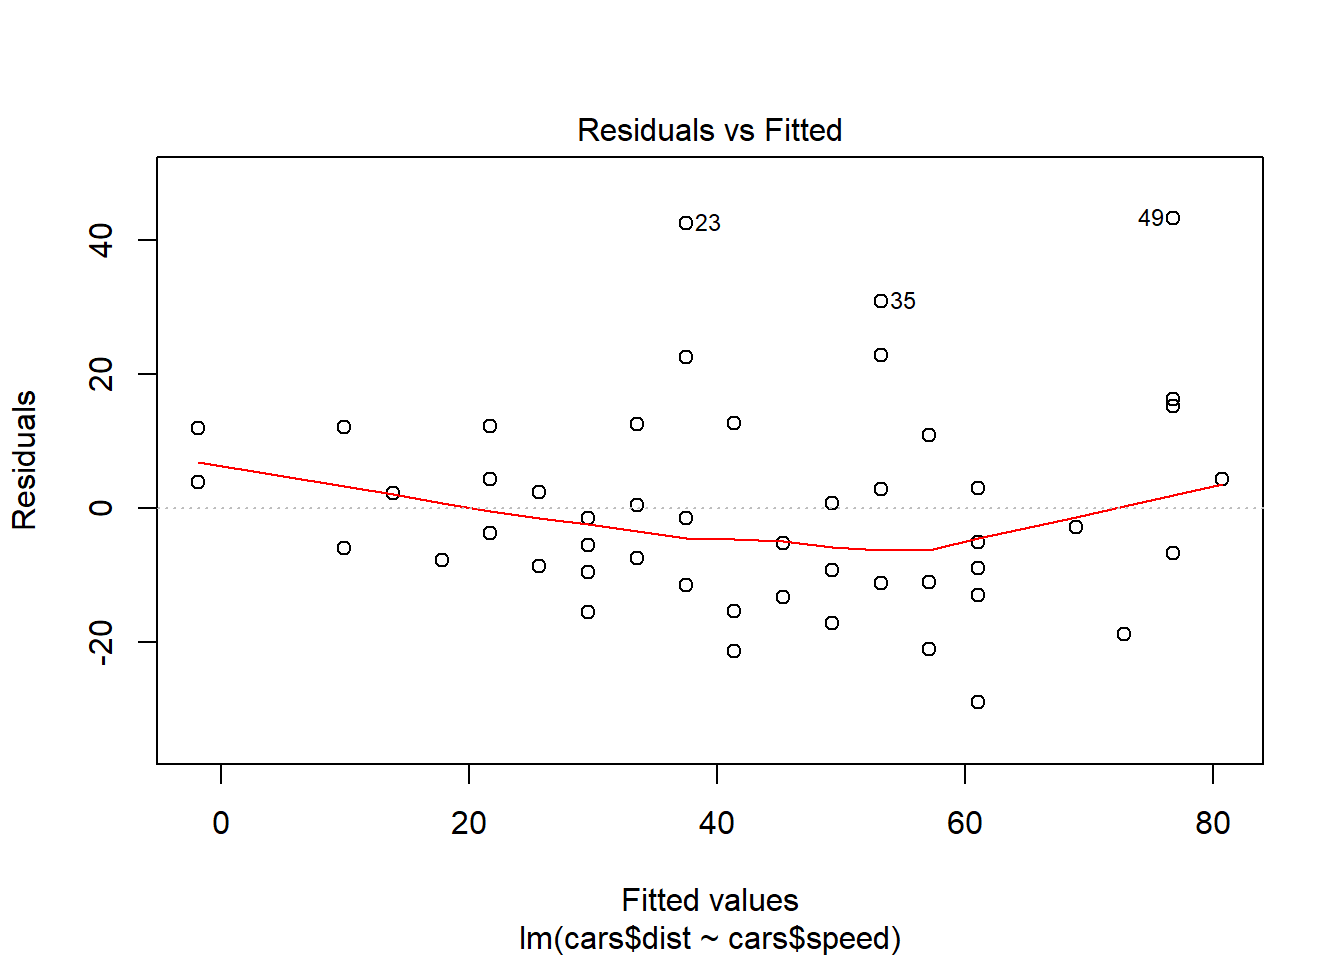
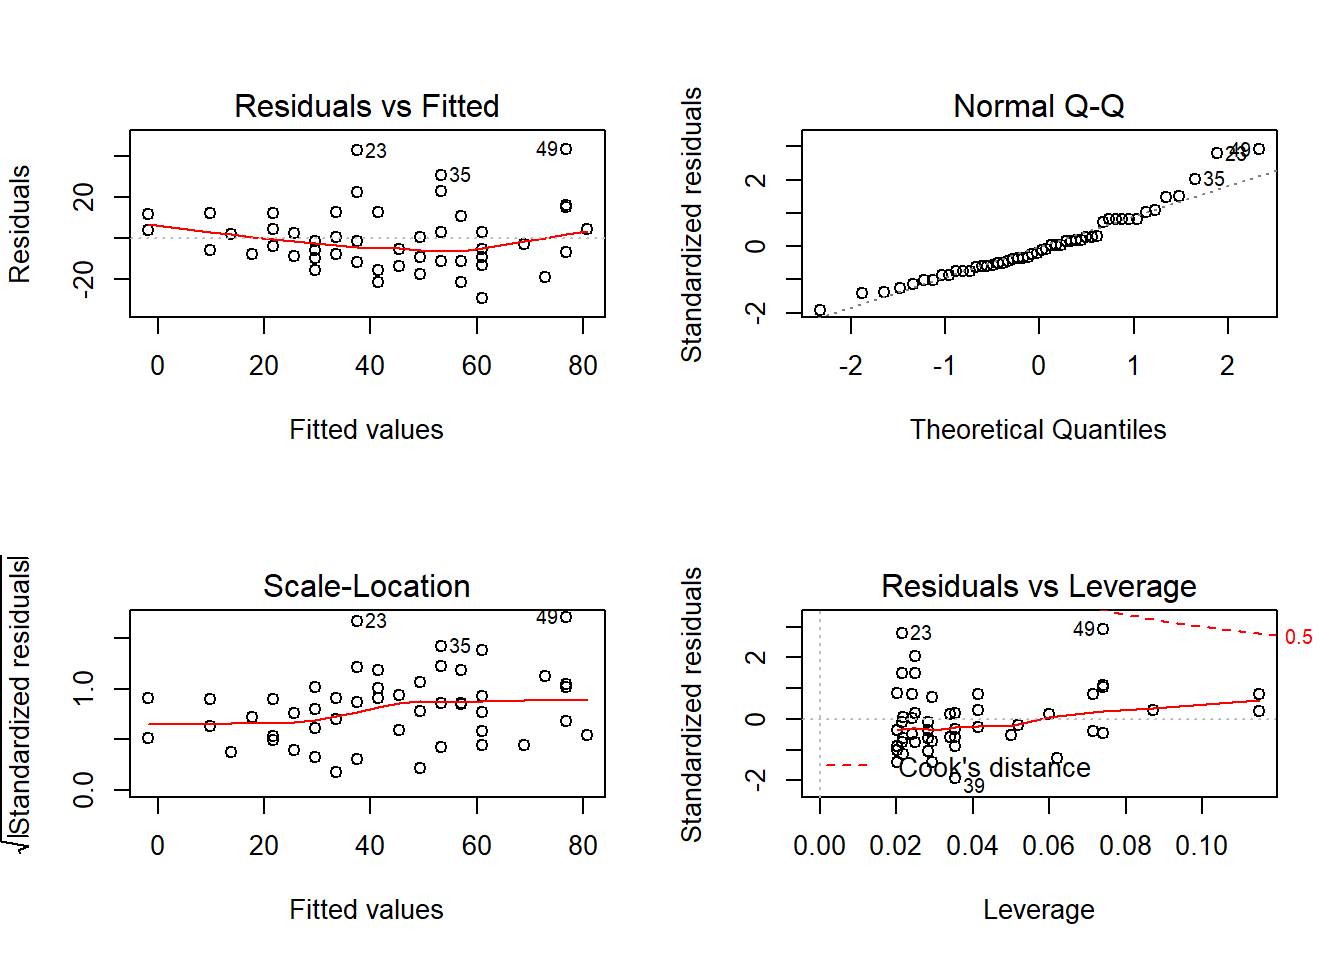
clase de regresión modificada

diff --git a/regrelineal.html b/regrelineal.html
@@ -344,18 +344,16 @@ $(document).ready(function () {
 </div>
 
 
-<div id="regresion-lineal" class="section level2">
-<h2>Regresión lineal</h2>
 <p>Permite establecer asociaciones entre variables de interés, entre las cuáles la relación usual no es necesariamente de causa efecto.</p>
 <p>El objetivo es obtener estimaciones razonables de Y para distintos valores de X a partir de una muestra de n pares de valores (x1, y1), . . . ,(xn, yn).</p>
-</div>
 <div id="antes-de-hacer-un-modelo-de-regresion-lineal" class="section level2">
 <h2>Antes de hacer un modelo de regresión lineal</h2>
 <p>Se deben identificar observaciones extremas, alejadas hacia valores muy grandes o pequeños comparadas con el resto de valores, que puedan influenciar el ajuste de regresión. Para ello se recurre a un análisis descriptivo a través de boxplots ó diagramas de puntos.</p>
 </div>
 <div id="modelo-de-regresion-lineal-basico" class="section level2">
 <h2>Modelo de regresión lineal básico</h2>
-<p>El modelo más simple de regresión corresponde a: <br /><span class="math display">$$\Large y_i=\beta_0 +\beta_1 X_i+\varepsilon_i$$</span><br /> Donde:</p>
+<p>El modelo más simple de regresión corresponde a: <br /><span class="math display">$$\Large y_i=\beta_0 +\beta_1 X_i+\varepsilon_i$$</span><br /></p>
+<p>Donde:</p>
 <p><span class="math inline">$\Large y_i$</span>Es la variable respuesta o dependiente para la i-ésima observación<br />
 </p>
 <p><span class="math inline">$\Large \beta_0$</span> Intercepto<br />
@@ -417,6 +415,12 @@ $(document).ready(function () {
 <li><p>Valores cercanos a 0 la relación es débil, es decir no hay una relación lineal</p></li>
 </ul>
 <p><img src="regrelineal_files/figure-html/unnamed-chunk-1-1.png" width="672" style="display: block; margin: auto 0 auto auto;" /></p>
+</div>
+<div id="prueba-de-significancia-de-la-correlacion" class="section level2">
+<h2>Prueba de significancia de la correlación</h2>
+<p>Podemos chequear la significancia de la correlación a través del siguiente juego de hipótesis.</p>
+<p><br /><span class="math display">$$\Large H_0:  r=0$$</span><br /> <br /><span class="math display">$$\Large H_1:  r\not=0$$</span><br /></p>
+<p>En R usamos la función cor.test() para estudiar la significación estadística del coeficiente y concluir sobre la posible existencia de relación lineal entre las variables.</p>
 </div>
 <div id="medida-de-bondad-de-ajuste-r2" class="section level2">
 <h2>Medida de bondad de ajuste R^2</h2>
@@ -510,13 +514,6 @@ $(document).ready(function () {
 <p>El estadístico de prueba corresponde a</p>
 <p><br /><span class="math display">$$\Large F_c=\frac{MSR}{MSE}\sim F_{(1,n-2)}$$</span><br /></p>
 </div>
-<div id="desicion" class="section level2">
-<h2>Desición</h2>
-<p>Rechazar <span class="math inline">$\Large H_0$</span> si <span class="math inline">$\Large F_c&gt;F_{(1,n-2)}$</span></p>
-</div>
-<div id="valor-p" class="section level2">
-<h2>Valor p</h2>
-</div>
 <div id="estimacion-de-la-varianza" class="section level2">
 <h2>Estimación de la varianza</h2>
 <p>Para estimar la varianza de los errores <span class="math inline"><em>σ</em><sup>2</sup></span>, podemos utilizar el estimador máximo verosimil:</p>
@@ -559,6 +556,23 @@ $(document).ready(function () {
 </div>
 <div id="resultados-del-modelo-en-r" class="section level2">
 <h2>Resultados del modelo en R</h2>
+<pre class="r"><code>plot(cars$speed,cars$dist)
+
+cor.test(cars$speed,cars$dist)</code></pre>
+<pre><code>## 
+##  Pearson&#39;s product-moment correlation
+## 
+## data:  cars$speed and cars$dist
+## t = 9.464, df = 48, p-value = 1.49e-12
+## alternative hypothesis: true correlation is not equal to 0
+## 95 percent confidence interval:
+##  0.6816422 0.8862036
+## sample estimates:
+##       cor 
+## 0.8068949</code></pre>
+<pre class="r"><code>md=lm(cars$dist~cars$speed)
+
+summary(md)</code></pre>
 <pre><code>## 
 ## Call:
 ## lm(formula = cars$dist ~ cars$speed)
@@ -577,8 +591,10 @@ $(document).ready(function () {
 ## Residual standard error: 15.38 on 48 degrees of freedom
 ## Multiple R-squared:  0.6511, Adjusted R-squared:  0.6438 
 ## F-statistic: 89.57 on 1 and 48 DF,  p-value: 1.49e-12</code></pre>
+<pre class="r"><code>j=fitted(md)
+
+lines(cars$speed,j, col=2, lwd=2)</code></pre>
 <p><img src="regrelineal_files/figure-html/unnamed-chunk-6-1.png" width="672" /></p>
-<pre><code>## [1] 0.8068949</code></pre>
 <div id="anova-del-modelo" class="section level3">
 <h3>anova del modelo</h3>
 <pre><code>## Analysis of Variance Table
@@ -593,15 +609,11 @@ $(document).ready(function () {
 </div>
 <div id="modelo-de-regresion-lineal-simple-en-la-calculadora" class="section level2">
 <h2>Modelo de regresión lineal simple en la calculadora</h2>
-<ul>
-<li>como estimar un modelo de <a href="https://www.youtube.com/watch?v=4_WO31Dapv0">regresión lineal</a> en la calculadora</li>
-<li>Dados los siguientes datos elabore</li>
-</ul>
-<ol style="list-style-type: decimal">
-<li>Diagrama de dispersión</li>
-<li>Ajuste del modelo lineal</li>
-<li>Estime el valor de la correlación</li>
-</ol>
+</div>
+<div id="como-obtener-un-modelo-de-regresion-lineal-simple-en-la-calculadora" class="section level2">
+<h2>Cómo obtener un modelo de regresión lineal simple en la calculadora</h2>
+<iframe width="560" height="315" src="https://www.youtube.com/embed/4_WO31Dapv0" frameborder="0" allow="accelerometer; autoplay; encrypted-media; gyroscope; picture-in-picture" allowfullscreen>
+</iframe>
 </div>
 <div id="validacion-de-los-supuestos" class="section level2">
 <h2>Validación de los supuestos</h2>
@@ -609,9 +621,13 @@ $(document).ready(function () {
 <div id="qqplot" class="section level3">
 <h3>QQplot</h3>
 <p>permite verificar la normalidad de los errores. Si es cierta la normalidad de los residuos, los puntos deben estar alineados con la diagonal.</p>
-<p><img src="regrelineal_files/figure-html/unnamed-chunk-8-1.png" width="672" /><img src="regrelineal_files/figure-html/unnamed-chunk-8-2.png" width="672" /><img src="regrelineal_files/figure-html/unnamed-chunk-8-3.png" width="672" /><img src="regrelineal_files/figure-html/unnamed-chunk-8-4.png" width="672" /></p>
 </div>
 <div id="grafico-de-los-residuos-versus-los-valores-ajustados" class="section level3">
+<h3>Gráfico de los residuos versus los valores ajustados</h3>
+<p>Los residuos están distribuidos alrededor del cero y el gráfico no presenta ninguna tendencia, entonces el modelo se considera adecuado. Si se observa una tendencia, estaríamos violando el supuesto de linealidad, y si se observa una nube de puntos en forma de embudo, podemos tener problemas con el supuesto de homocedasticidad de varianzas.</p>
+<p><img src="regrelineal_files/figure-html/unnamed-chunk-8-1.png" width="672" /></p>
+</div>
+<div id="grafico-de-los-residuos-versus-los-valores-ajustados-1" class="section level3">
 <h3>Gráfico de los residuos versus los valores ajustados</h3>
 <p>Si los residuos están distribuidos alrededor del cero y el gráfico no presenta ninguna tendencia, entonces el modelo se considera adecuado. Note que si se observa una tendencia, estaríamos violando el supuesto de linealidad (lo cual sugiere alguna transformación), y si se observa una nube de puntos en forma de embudo, podemos tener problemas con el supuesto de homocedasticidad de varianzas.</p>
 </div>
@@ -623,9 +639,49 @@ $(document).ready(function () {
 </div>
 <div id="tipos-de-variables-y-de-efectos-en-los-modelos" class="section level2">
 <h2>Tipos de variables y de efectos en los modelos</h2>
-<p>Las variables predictoras pueden ser:  Cuantitativas, caso en el cual se supone se miden sin error (o el error es despreciable).</p>
+<p>Las variables predictoras pueden ser:</p>
+<p> Cuantitativas, caso en el cual se supone se miden sin error (o el error es despreciable).</p>
 <p> Cualitativas o categóricas, en este caso su manejo en el modelo se realiza a través de la definición de variables indicadoras, las cuales toman valores de 0 ó 1.</p>
-<p>Por ejemplo, suponga que en un modelo de regresión para el gasto mensual por familia en actividades recreativas, se tiene entre las variables predictoras el estrato socioeconómico, definido en cinco niveles, luego, para cada nivel se define una variable indicadora de la siguiente forma:</p>
+</div>
+<div id="tabla-de-resumen-del-analisis-de-varianza-1" class="section level2">
+<h2>Tabla de resumen del análisis de varianza</h2>
+<table>
+<thead>
+<tr class="header">
+<th>Factor</th>
+<th>Grados de libertad</th>
+<th>Suma de cuadrados</th>
+<th>Medias cuadráticas</th>
+<th>Estadístico</th>
+</tr>
+</thead>
+<tbody>
+<tr class="odd">
+<td>Regresión</td>
+<td>p-1</td>
+<td>SSR</td>
+<td>MSR</td>
+<td>Fc</td>
+</tr>
+<tr class="even">
+<td>Error</td>
+<td>n-p</td>
+<td>SSE</td>
+<td>MSE</td>
+<td></td>
+</tr>
+<tr class="odd">
+<td>Total</td>
+<td>n-1</td>
+<td>SST</td>
+<td>MST</td>
+<td></td>
+</tr>
+</tbody>
+</table>
+<div id="regresion-lineal-con-variables-indicadoras" class="section level3">
+<h3><strong>Regresión lineal con variables indicadoras</strong></h3>
+<p>Suponga que en un modelo de regresión para el gasto mensual por familia en actividades recreativas, se tiene entre las variables predictoras el estrato socioeconómico, definido en cinco niveles, luego, para cada nivel se define una variable indicadora de la siguiente forma:</p>
 <p>Estrato 1: <br /><span class="math display">$$ \Large  I_1 =\left\lbrace \begin{array}{rcl}
             {1\quad familia \quad estrato \quad 1}
          \\
@@ -647,6 +703,7 @@ Estrato 4 $$  I_4 =
 <p>En general, una variable cualitativa con c clases se representa mediante c -1 variables indicadoras, puesto que cuando en una observación dada, todas las c -1 primeras indicadoras son iguales a cero, entonces la variable cualitativa se haya en su última clase. En el ejemplo anterior basta definir las primeras cuatro indicadoras.</p>
 <iframe width="560" height="315" src="https://www.youtube.com/embed/eG5tI6aYgos" frameborder="0" allow="accelerometer; autoplay; encrypted-media; gyroscope; picture-in-picture" allowfullscreen>
 </iframe>
+</div>
 </div>
 <div id="ejemplo-1" class="section level2">
 <h2>Ejemplo:</h2>
@@ -733,8 +790,81 @@ summary(model)</code></pre>
 <p>Las rectas ajustadas para cada arbol son:</p>
 <p>Arbol 1:</p>
 <p><br /><span class="math display">$$\Large \hat y_i=17.4+0.1x_{i}$$</span><br /></p>
-<p>Arbol 2: <br /><span class="math display">$$\Large \hat y_i=57.33+0.1x_{i}$$</span><br /> Arbol 3: <br /><span class="math display">$$\Large \hat y_i=19.92+0.1x_{i}$$</span><br /></p>
-<p>Arbol 4: <br /><span class="math display">$$\Large \hat y_i=9.14+0.1x_{i}$$</span><br /> Arbol 5: <br /><span class="math display">$$\Large \hat y_i=12.71+0.1x_{i}$$</span><br /></p>
+<p>Arbol 2: <br /><span class="math display">$$\Large \hat y_i=57.33+0.1x_{i}$$</span><br /></p>
+<p>Arbol 3: <br /><span class="math display">$$\Large \hat y_i=19.92+0.1x_{i}$$</span><br /></p>
+<p>Arbol 4: <br /><span class="math display">$$\Large \hat y_i=9.14+0.1x_{i}$$</span><br /></p>
+<p>Arbol 5: <br /><span class="math display">$$\Large \hat y_i=12.71+0.1x_{i}$$</span><br /></p>
+<div id="regresion-lineal-con-variables-continuas" class="section level3">
+<h3><strong>Regresión lineal con variables continuas</strong></h3>
+<div id="ejemplo-en-r" class="section level4">
+<h4>Ejemplo en R</h4>
+<p>Para estimar la producción en madera de un bosque se suele realizar un muestreo previo en el que se toman una serie de mediciones no destructivas. Disponemos de mediciones para 20 árboles, así como el volumen de madera que producen una vez cortados. Las variables observadas son: HT = altura en pies DBH = diámetro del tronco a 4 pies de altura (en pulgadas) D16 = diámetro del tronco a 16 pies de altura (en pulgadas) V OL = volumen de madera obtenida (en pies cúbicos).</p>
+<p>El objetivo del análisis es determinar cuál es la relación entre dichas medidas y el volumen de madera, con el fin de poder predecir este último en función de las primeras</p>
+<p><img src="regrelineal_files/figure-html/unnamed-chunk-15-1.png" width="672" /></p>
+<pre><code>## Error in install.packages : object &#39;ppcor&#39; not found</code></pre>
+<pre><code>## Warning: package &#39;ppcor&#39; was built under R version 3.5.3</code></pre>
+<pre><code>## $estimate
+##           VOL        DBH        D16         HT
+## VOL 1.0000000  0.3683119  0.7627127  0.7285511
+## DBH 0.3683119  1.0000000  0.2686789 -0.3107753
+## D16 0.7627127  0.2686789  1.0000000 -0.4513110
+## HT  0.7285511 -0.3107753 -0.4513110  1.0000000
+## 
+## $p.value
+##              VOL       DBH          D16           HT
+## VOL 0.0000000000 0.1326107 0.0002324675 0.0006056469
+## DBH 0.1326107400 0.0000000 0.2810102724 0.2094003059
+## D16 0.0002324675 0.2810103 0.0000000000 0.0601150552
+## HT  0.0006056469 0.2094003 0.0601150552 0.0000000000
+## 
+## $statistic
+##          VOL       DBH       D16        HT
+## VOL 0.000000  1.584644  4.717295  4.254366
+## DBH 1.584644  0.000000  1.115742 -1.307862
+## D16 4.717295  1.115742  0.000000 -2.022984
+## HT  4.254366 -1.307862 -2.022984  0.000000
+## 
+## $n
+## [1] 20
+## 
+## $gp
+## [1] 2
+## 
+## $method
+## [1] &quot;pearson&quot;</code></pre>
+<p>Al quitar la variable no significativa del modelo queda</p>
+<pre><code>## 
+## Call:
+## lm(formula = VOL ~ D16 + HT)
+## 
+## Residuals:
+##     Min      1Q  Median      3Q     Max 
+## -4.2309 -1.8386 -0.4012  1.0922  6.9373 
+## 
+## Coefficients:
+##              Estimate Std. Error t value Pr(&gt;|t|)    
+## (Intercept) -105.9027    14.6520  -7.228 1.41e-06 ***
+## D16            7.4128     0.5088  14.568 4.92e-11 ***
+## HT             0.6765     0.1698   3.985 0.000959 ***
+## ---
+## Signif. codes:  0 &#39;***&#39; 0.001 &#39;**&#39; 0.01 &#39;*&#39; 0.05 &#39;.&#39; 0.1 &#39; &#39; 1
+## 
+## Residual standard error: 3.23 on 17 degrees of freedom
+## Multiple R-squared:  0.9526, Adjusted R-squared:  0.9471 
+## F-statistic: 170.9 on 2 and 17 DF,  p-value: 5.515e-12</code></pre>
+<pre><code>## Analysis of Variance Table
+## 
+## Response: VOL
+##           Df Sum Sq Mean Sq F value    Pr(&gt;F)    
+## D16        1 3401.3  3401.3 326.019  1.58e-12 ***
+## HT         1  165.7   165.7  15.878 0.0009585 ***
+## Residuals 17  177.4    10.4                      
+## ---
+## Signif. codes:  0 &#39;***&#39; 0.001 &#39;**&#39; 0.01 &#39;*&#39; 0.05 &#39;.&#39; 0.1 &#39; &#39; 1</code></pre>
+<p><img src="regrelineal_files/figure-html/unnamed-chunk-16-1.png" width="672" /><img src="regrelineal_files/figure-html/unnamed-chunk-16-2.png" width="672" /><img src="regrelineal_files/figure-html/unnamed-chunk-16-3.png" width="672" /><img src="regrelineal_files/figure-html/unnamed-chunk-16-4.png" width="672" /> el modelo ajustado corresponde a:</p>
+<p><br /><span class="math display">$$\hat y=-105.9027+7.41D16+0.67HT$$</span><br /></p>
+</div>
+</div>
 </div>
 </div>
 

diff --git a/about.html b/about.html
@@ -347,14 +347,14 @@ $(document).ready(function () {
 <div id="r" class="section level1">
 <h1>R</h1>
 <p>R es una herramienta de análisis estadístico que permite el desarrollo de multiples aplicaciones a traves R studio y su librería shiny</p>
-<p><img src="about_files/figure-html/unnamed-chunk-1-1.png" width="672" style="display: block; margin: auto 0 auto auto;" /></p>
+<p><img src="about_files/figure-html/unnamed-chunk-2-1.png" width="672" style="display: block; margin: auto 0 auto auto;" /></p>
 <p>¿Cómo descargar R y Rstudio?</p>
 <iframe width="562" height="273" src="https://www.youtube.com/embed/1WXgaa2Spp0" frameborder="0" allow="accelerometer; autoplay; encrypted-media; gyroscope; picture-in-picture" allowfullscreen>
 </iframe>
 </div>
 <div id="aplicaciones-desarrolladas-en-shiny" class="section level1">
 <h1>Aplicaciones desarrolladas en Shiny</h1>
-<p><img src="about_files/figure-html/unnamed-chunk-2-1.png" width="672" style="display: block; margin: auto 0 auto auto;" /></p>
+<p><img src="about_files/figure-html/unnamed-chunk-3-1.png" width="672" style="display: block; margin: auto 0 auto auto;" /></p>
 <p>En esta sección se muestran algunos de los múltiples usos y aplicaciones que se pueden realizar:</p>
 <div id="una-encuesta" class="section level2">
 <h2>Una encuesta</h2>
